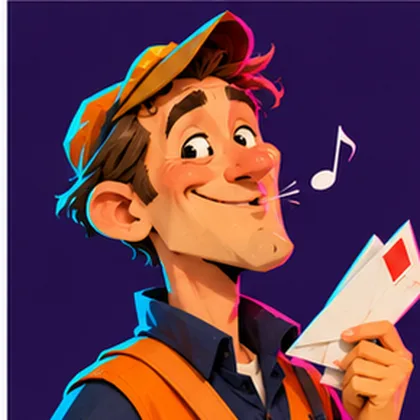
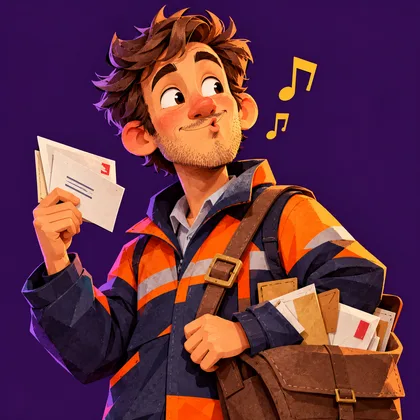
De Ruil: schuilplaats met fotomuren, kisten en cadeau als plaatjes, scherf en zaklamp als plaatjes, nieuwe Postbode Pim
Claude-Session: https://claude.ai/code/session_01HjoMAd8ASFzUV1YSQ7s2iS

diff --git a/games/ruil/game.js b/games/ruil/game.js
@@ -27,6 +27,7 @@ var SUSF=["krul","bibi","bram","pim","sem","vos","kees","theo","lotte","dirk"];
 function pose(k,cls){return '<img class="'+(cls||"pose")+'" src="'+IMGROOT+(k==="thief"?"thief":"thief-"+k)+'.webp" alt="" width="720" height="720">'}
 /* plaatjes van de dief voor canvas (kaart, spellen, intro, spiegel) */
 var TIMG={};["thief","run","lamp","laugh","shard","red","green","yellow"].forEach(function(k){var im=new Image();im.src=IMGROOT+(k==="thief"?"thief":"thief-"+k)+".webp";TIMG[k]=im});
+["shardimg","gift","torch"].forEach(function(k){var im=new Image();im.src=IMGROOT+(k==="shardimg"?"shard":k)+".webp";TIMG[k]=im});
 function drawPose(c,k,x,y,s,al){var im=TIMG[k];if(!im||!im.naturalWidth)return false;c.save();c.globalAlpha=al==null?1:al;var h=s,w=h*im.naturalWidth/im.naturalHeight;c.drawImage(im,x-w/2,y-h/2,w,h);c.restore();return true}
 function bubble(txt,who,cls){return '<div class="msg '+(cls||"")+'">'+SHADOW+'<div class="bub">'+(who?'<em>'+esc(who)+'</em>':'')+'<p>'+esc(txt)+'</p></div></div>'}
 function shadowFig(c,x,y,s,al,eyes,key){if(drawPose(c,key||"run",x,y,s*1.1,al))return;c.save();c.globalAlpha=al==null?1:al;c.translate(x,y);c.scale(s/64,s/64);
@@ -210,7 +211,10 @@ function accept(seen){var i=cur.i,s=G.c.slots[i];G.ph[i]=cur.thumb;if(cur.spot)c
   $("#bNext").onclick=function(){closeSheet();sel=null;cur=null;if(G.mode==="map"||G.mode==="demo"){chip();if(n>=8)accuseSheet()}else{render();if(n>=8)accuseSheet()}}}
 /* scherf: veelhoek met spiegelglans; als plaatje voor de strook en als animatie (valt binnen, licht op) */
 function shardPath(g,cx,cy,r,n){var pts=[],k=5+(n%3);for(var i=0;i<k;i++){var a=i/k*6.283+n,rr=r*(.7+((i*7+n*3)%5)/10);pts.push([cx+Math.cos(a)*rr,cy+Math.sin(a)*rr])}g.beginPath();pts.forEach(function(p,i){i?g.lineTo(p[0],p[1]):g.moveTo(p[0],p[1])});g.closePath()}
-function drawShard(g,cx,cy,r,n,glow){var gr=g.createLinearGradient(cx-r,cy-r,cx+r,cy+r);gr.addColorStop(0,"#e9fbff");gr.addColorStop(.45,"#8fd8ff");gr.addColorStop(.5,"#ffffff");gr.addColorStop(.55,"#5ab0ff");gr.addColorStop(1,"#2b2a7a");
+function drawShard(g,cx,cy,r,n,glow){var im=TIMG.shardimg;
+  if(im&&im.naturalWidth){var h=r*2.2,w=h*im.naturalWidth/im.naturalHeight;g.save();if(glow){g.shadowColor="#38e8ff";g.shadowBlur=glow}g.drawImage(im,cx-w/2,cy-h/2,w,h);g.shadowBlur=0;
+    g.fillStyle="#d4ff3a";g.beginPath();g.arc(cx+r*.55,cy+r*.6,r*.36,0,7);g.fill();g.fillStyle="#1a1433";g.font="700 "+Math.round(r*.46)+"px 'Fredoka',sans-serif";g.textAlign="center";g.textBaseline="middle";g.fillText(n,cx+r*.55,cy+r*.62);g.restore();return}
+  var gr=g.createLinearGradient(cx-r,cy-r,cx+r,cy+r);gr.addColorStop(0,"#e9fbff");gr.addColorStop(.45,"#8fd8ff");gr.addColorStop(.5,"#ffffff");gr.addColorStop(.55,"#5ab0ff");gr.addColorStop(1,"#2b2a7a");
   g.save();if(glow){g.shadowColor="#38e8ff";g.shadowBlur=glow}shardPath(g,cx,cy,r,n);g.fillStyle=gr;g.fill();g.shadowBlur=0;g.strokeStyle="#fff";g.lineWidth=2;g.stroke();
   g.fillStyle="#1a1433";g.font="700 "+Math.round(r*.7)+"px 'Fredoka',sans-serif";g.textAlign="center";g.textBaseline="middle";g.fillText(n,cx,cy+2);g.restore()}
 function shardThumb(i,act){var cv=document.createElement("canvas");cv.width=cv.height=360;var g=cv.getContext("2d"),bg=g.createRadialGradient(180,180,20,180,180,260);bg.addColorStop(0,"#2a2150");bg.addColorStop(1,"#0a0718");g.fillStyle=bg;g.fillRect(0,0,360,360);
@@ -241,6 +245,7 @@ var PUZ={
       c.dataset.p=Math.round(fx)+","+Math.round(fy);g.fillStyle="#2b2560";g.fillRect(0,0,280,280);crates.forEach(function(r){g.fillStyle=r[4];g.globalAlpha=.35;g.fillRect(r[0],r[1],r[2],r[3])});g.globalAlpha=1;
       shadowFig(g,fx,fy,70,1,true,"lamp");
       var gr=g.createRadialGradient(lx,ly,10,lx,ly,70);gr.addColorStop(0,"rgba(7,5,15,0)");gr.addColorStop(1,"rgba(7,5,15,1)");g.fillStyle=gr;g.fillRect(0,0,280,280);
+      drawPose(g,"torch",lx-52,ly-48,90,.95);
       var near=Math.hypot(lx-fx,ly-fy)<30;hold=near?hold+dt:0;
       if(near){g.strokeStyle="#d4ff3a";g.lineWidth=4;g.beginPath();g.arc(fx,fy,46,-1.57,-1.57+6.283*Math.min(1,hold/.7));g.stroke()}
       if(hold>=.7){hits++;hold=0;beep(500+hits*120,.12);buzz(40);if(hits>=3)return o.done();place()}
@@ -342,15 +347,15 @@ function mirrorAnim(cv,k){var g=cv.getContext("2d"),t0=0,still=matchMedia("(pref
 
 /* ---------- zijn schuilplaats in 3D (CSS): vier muren, veeg om rond te kijken, tik op de juiste kist ---------- */
 function hideout(){var ov=$("#hide"),room=$("#room"),k=G.c.sus[G.c.K],right=k.tr.hoofd,H=D.HIDE,cols=["#e63946","#2a9d4b","#f4c20d"];
-  var walls=[[chest(0),tv()],[chest(1),coat()],[chest(2),poster()],[feathers(),lamp(),laugh()]];
-  function chest(i){return '<div class="obj chest" data-c="'+i+'" style="--c:'+cols[i]+';left:27%;bottom:10%"><i class="lid"></i><b></b><span>'+esc(H.boxes[i])+'</span></div>'}
+  var walls=[[chest(0)],[chest(1)],[chest(2)],[laugh()]];
+  function chest(i){return '<div class="obj chest img" data-c="'+i+'" style="--c:'+cols[i]+';left:'+[30,34,32][i]+'%;bottom:4%"><img class="gift" src="'+IMGROOT+'gift.webp" alt="" width="529" height="560"><img class="box" src="'+IMGROOT+'chest-'+["red","green","yellow"][i]+'.webp" alt="" width="560" height="440"><span>'+esc(H.boxes[i])+'</span></div>'}
   function tv(){return '<div class="obj tvs" data-x="1" style="right:26%;bottom:34%"><b>'+esc(H.tv)+'</b><span>'+esc(H.others[0])+'</span></div>'}
   function coat(){return '<div class="obj coat" data-x="1" style="right:27%;bottom:22%"><i></i><i></i><i></i><span>'+esc(H.others[1])+'</span></div>'}
   function feathers(){return '<div class="obj feat" data-x="1" style="left:30%;bottom:10%"><b>'+esc(H.feathers)+'</b><span>'+esc(H.others[2])+'</span></div>'}
   function poster(){return '<div class="obj poster" style="right:28%;top:12%">'+SHADOW+'<b>?</b></div>'}
   function laugh(){return '<div class="obj laugh" style="left:4%;bottom:4%">'+pose("laugh","pose")+'</div>'}
   function lamp(){return '<div class="obj lampo" style="left:38%;top:8%"></div>'}
-  room.innerHTML=walls.map(function(w,i){return '<div class="wall w'+i+'">'+w.join("")+'</div>'}).join("")+'<div class="floor"></div>';
+  room.innerHTML=walls.map(function(w,i){return '<div class="wall w'+i+'" style="background-image:url('+IMGROOT+'wall-'+i+'.webp)">'+w.join("")+'</div>'}).join("")+'<div class="floor"></div>';
   $("#hideHint").textContent=T.hideHint;$("#hideTip").textContent=T.hideTip;$("#hideMsg").textContent="";ov.hidden=true;ov.hidden=false;
   var rot=0,pd=null,fin=false,set=function(){room.style.transform="rotateY("+rot+"deg)"};set();
   ov.onpointerdown=function(e){pd={x:e.clientX,r:rot,moved:false}};ov.onpointermove=function(e){if(!pd)return;var dx=e.clientX-pd.x;if(Math.abs(dx)>6)pd.moved=true;rot=pd.r+dx*.35;set()};

diff --git a/games/ruil/game.css b/games/ruil/game.css
@@ -148,11 +148,11 @@ h1,h2,h3{font-family:var(--f-type);font-weight:700}
 #cineT{position:absolute;left:16px;right:16px;top:14%;text-align:center;font-family:var(--f-type);font-weight:700;font-size:clamp(24px,7vw,34px);color:#fff;text-shadow:0 2px 12px #000;text-wrap:balance}
 #cineX{position:absolute;right:14px;bottom:calc(16px + env(safe-area-inset-bottom,0px));width:auto;padding:10px 16px;background:rgba(36,28,69,.9);color:#fff;border:2px solid var(--street)}
 /* schuilplaats in 3D */
-#hide{position:fixed;inset:0;z-index:55;background:#07050f;perspective:360px;overflow:hidden;touch-action:none;user-select:none}
+#hide{position:fixed;inset:0;z-index:55;background:#07050f;perspective:300px;overflow:hidden;touch-action:none;user-select:none}
 #room{position:absolute;left:50%;top:50%;width:0;height:0;transform-style:preserve-3d;transition:transform .05s linear}
-#room .wall{position:absolute;left:-400px;top:-240px;width:800px;height:480px;background:linear-gradient(180deg,#2a2150,#1a1433 70%,#120d26);border:1px solid #3b3268;transform-style:preserve-3d;background-image:repeating-linear-gradient(90deg,rgba(255,255,255,.03) 0 2px,transparent 2px 60px),linear-gradient(180deg,#2a2150,#1a1433 70%,#120d26)}
+#room .wall{position:absolute;left:-400px;top:-320px;width:800px;height:640px;background:#1a1433 center/cover no-repeat;transform-style:preserve-3d;box-shadow:inset 0 0 80px rgba(0,0,0,.6)}
 #room .w0{transform:translateZ(-400px)}#room .w1{transform:rotateY(-90deg) translateZ(-400px)}#room .w2{transform:rotateY(180deg) translateZ(-400px)}#room .w3{transform:rotateY(90deg) translateZ(-400px)}
-#room .floor{position:absolute;left:-400px;top:-400px;width:800px;height:800px;transform:rotateX(90deg) translateZ(-240px);background:radial-gradient(circle at 50% 50%,#3b3268,#0a0718 70%)}
+#room .floor{position:absolute;left:-400px;top:-400px;width:800px;height:800px;transform:rotateX(90deg) translateZ(-320px);background:radial-gradient(circle at 50% 50%,#3b3268,#0a0718 70%)}
 .obj{position:absolute;display:flex;flex-direction:column;align-items:center;gap:6px;cursor:pointer}
 .obj span{font-family:var(--f-type);font-size:15px;color:#fff;background:rgba(7,5,15,.7);padding:3px 10px;border-radius:12px;white-space:nowrap}
 .obj.shake{animation:shake .5s}
@@ -185,3 +185,9 @@ h1,h2,h3{font-family:var(--f-type);font-weight:700}
 .sus.face .sbody{display:flex;flex-direction:column;gap:4px;min-width:0}
 .sus.pick .face{border-color:var(--pink)}
 .laugh{width:220px;pointer-events:none}
+.chest.img{width:190px}
+.chest.img .box{width:190px;height:auto;display:block;position:relative;z-index:2;filter:drop-shadow(0 10px 20px rgba(0,0,0,.7));transition:transform .5s}
+.chest.img .gift{position:absolute;left:35px;bottom:70px;width:120px;height:auto;z-index:1;opacity:0;transform:translateY(40px) scale(.3);transition:transform .6s cubic-bezier(.2,1.6,.4,1),opacity .3s}
+.chest.img.open .gift{opacity:1;transform:translateY(-60px) scale(1);filter:drop-shadow(0 0 30px #d4ff3a)}
+.chest.img.open .box{transform:translateY(10px) rotate(-6deg)}
+.chest.img span{position:relative;z-index:3}

diff --git a/nl/de-ruil.html b/nl/de-ruil.html
@@ -19,7 +19,7 @@
 <meta name="theme-color" content="#1a1433">
 <link rel="stylesheet" href="https://fonts.googleapis.com/css2?family=Fredoka:wght@500;600;700&family=Permanent+Marker&family=Barlow:wght@400;500;600&family=Barlow+Condensed:wght@500;600&display=swap">
 <link rel="stylesheet" href="../shared/platform.css?v=1">
-<link rel="stylesheet" href="../games/ruil/game.css?v=4">
+<link rel="stylesheet" href="../games/ruil/game.css?v=5">
 <script type="application/ld+json">{"@context":"https://schema.org","@type":"VideoGame","name":"De Ruil","url":"https://moordwandeling.nl/nl/de-ruil.html","description":"Kinderspeurtocht voor feestjes: De Schaduwdief heeft het cadeau gestolen en wil ruilen. Foto's, puzzels en schaduwen vangen, acht spiegelscherven, één leugen. Met kaart, zonder kaart of binnen. Eerste ruil gratis.","inLanguage":"nl","gamePlatform":"Webbrowser","genre":["Kinderspel","Speurtocht","Detective"],"isAccessibleForFree":true,"offers":{"@type":"Offer","price":"3.99","priceCurrency":"EUR","description":"Pro"}}</script>
 </head>
 <body>
@@ -127,6 +127,6 @@
 <script src="../shared/ort/ort.wasm.min.js?v=1"></script>
 <script src="../games/fotojacht/model/labels.js?v=1"></script>
 <script src="../games/ruil/data-nl.js?v=4"></script>
-<script src="../games/ruil/game.js?v=5"></script>
+<script src="../games/ruil/game.js?v=6"></script>
 </body>
 </html>

diff --git a/the-swap.html b/the-swap.html
@@ -19,7 +19,7 @@
 <meta name="theme-color" content="#1a1433">
 <link rel="stylesheet" href="https://fonts.googleapis.com/css2?family=Fredoka:wght@500;600;700&family=Permanent+Marker&family=Barlow:wght@400;500;600&family=Barlow+Condensed:wght@500;600&display=swap">
 <link rel="stylesheet" href="shared/platform.css?v=1">
-<link rel="stylesheet" href="games/ruil/game.css?v=4">
+<link rel="stylesheet" href="games/ruil/game.css?v=5">
 <script type="application/ld+json">{"@context":"https://schema.org","@type":"VideoGame","name":"The Swap","url":"https://murderwalk.com/the-swap.html","description":"A kids' detective hunt for parties: The Shadow Thief has stolen the present and wants to trade. Photos, puzzles and catching shadows, eight mirror shards, one lie. With a map, without a map or indoors. First swap free.","inLanguage":"en","gamePlatform":"Web browser","genre":["Kids' game","Scavenger hunt","Detective"],"isAccessibleForFree":true,"offers":{"@type":"Offer","price":"3.99","priceCurrency":"EUR","description":"Pro"}}</script>
 </head>
 <body>
@@ -127,6 +127,6 @@
 <script src="shared/ort/ort.wasm.min.js?v=1"></script>
 <script src="games/fotojacht/model/labels.js?v=1"></script>
 <script src="games/ruil/data-en.js?v=4"></script>
-<script src="games/ruil/game.js?v=5"></script>
+<script src="games/ruil/game.js?v=6"></script>
 </body>
 </html>
